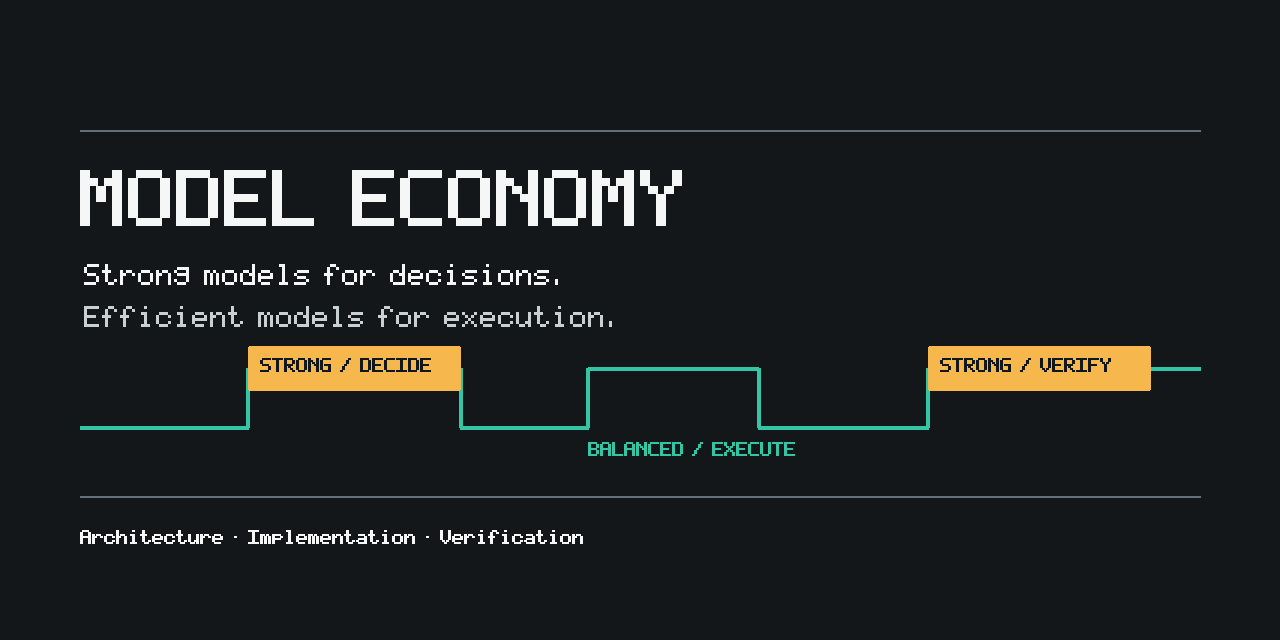
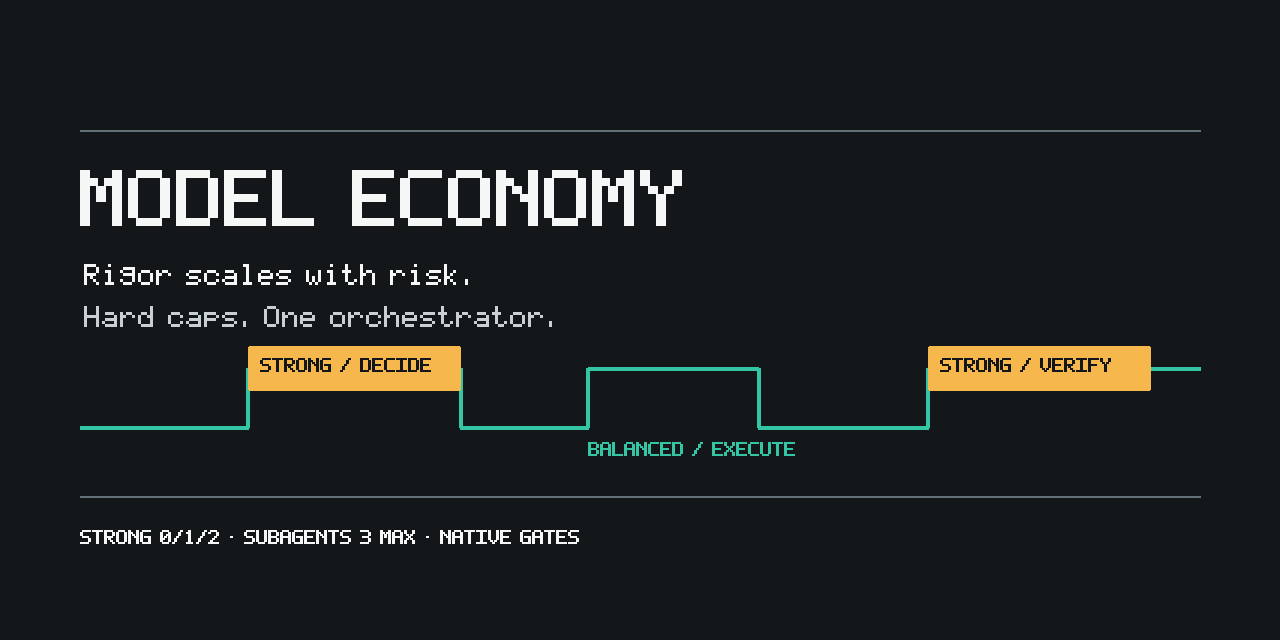
docs: sharpen Model Economy positioning (#3)

Changed region(s): [[0.0625, 0.4062, 0.4688, 0.5312], [0.0625, 0.8125, 0.3125, 0.875], [0.3438, 0.8125, 0.4688, 0.875]]

diff --git a/tests/test_structure.py b/tests/test_structure.py
@@ -34,8 +34,12 @@ class StructureTests(unittest.TestCase):
 
     def test_readmes_share_the_public_information_architecture(self):
         expected_sections = (
+            "Why it exists",
+            "What makes it different",
+            "Model Economy vs full Superpowers",
             "How it works",
             "Install in 60 seconds",
+            "Use it on your terms",
             "Task classification",
             "Roles",
             "Global routing",
@@ -54,16 +58,27 @@ class StructureTests(unittest.TestCase):
         self.assertIn("assets/model-economy-flow-zh-CN.svg", chinese)
         self.assertIn("Use strong models for decisions, not routine work.", english)
         self.assertIn("让强模型负责关键判断，而不是日常机械工作", chinese)
+        self.assertIn("complete software development methodology", english)
+        self.assertIn("完整软件开发方法论", chinese)
+        self.assertIn("This task must not use Model Economy", english)
+        self.assertIn("本任务不要使用 Model Economy", chinese)
+        self.assertIn("at most three subagents", english)
+        self.assertIn("最多启动三个 subagent", chinese)
 
         last_index = -1
         for section in expected_sections:
-            index = english.index(section)
+            index = english.index(f"## {section}")
             self.assertGreater(index, last_index)
             last_index = index
 
+        last_index = -1
         for section in (
+            "为什么需要它",
+            "特别之处",
+            "Model Economy 与完整 Superpowers",
             "工作原理",
             "60 秒安装",
+            "按你的方式使用",
             "任务分类",
             "角色",
             "全局路由",
@@ -73,7 +88,20 @@ class StructureTests(unittest.TestCase):
             "贡献",
             "许可证",
         ):
-            self.assertIn(section, chinese)
+            index = chinese.index(f"## {section}")
+            self.assertGreater(index, last_index)
+            last_index = index
+
+    def test_readmes_compare_workflows_without_unsupported_adoption_claims(self):
+        english = (ROOT / "README.md").read_text(encoding="utf-8").lower()
+        chinese = (ROOT / "README.zh-CN.md").read_text(encoding="utf-8")
+
+        self.assertIn("https://github.com/obra/superpowers", english)
+        self.assertIn("https://github.com/obra/superpowers", chinese)
+        self.assertNotIn("abandoned", english)
+        self.assertNotIn("being abandoned", english)
+        self.assertNotIn("被抛弃", chinese)
+        self.assertNotIn("没人再用", chinese)
 
     def test_each_bilingual_command_document_matches_cli_help(self):
         cli = ROOT / "plugins/model-economy/scripts/model_economy.py"

diff --git a/scripts/render_social_preview.py b/scripts/render_social_preview.py
@@ -22,6 +22,10 @@ PALETTE = (
     (0xF6, 0xB7, 0x4D),
 )
 BITMAP_FONT = {
+    "0": "01110/10001/10011/10101/11001/10001/01110",
+    "1": "00100/01100/00100/00100/00100/00100/01110",
+    "2": "01110/10001/00001/00010/00100/01000/11111",
+    "3": "11110/00001/00001/01110/00001/00001/11110",
     "A": "01110/10001/10001/11111/10001/10001/10001",
     "B": "11110/10001/10001/11110/10001/10001/11110",
     "C": "01111/10000/10000/10000/10000/10000/01111",
@@ -171,12 +175,19 @@ def render(output: Path) -> None:
     for bounds, _, _ in PREVIEW_BADGES:
         draw.rounded_rectangle(bounds, radius=2, fill=AMBER)
     draw_bitmap_text(image, (80, 170), "MODEL ECONOMY", 8, TEXT, bold=True)
-    draw_bitmap_text(image, (84, 264), "Strong models for decisions.", 3, TEXT)
-    draw_bitmap_text(image, (84, 306), "Efficient models for execution.", 3, MUTED)
+    draw_bitmap_text(image, (84, 264), "Rigor scales with risk.", 3, TEXT)
+    draw_bitmap_text(image, (84, 306), "Hard caps. One orchestrator.", 3, MUTED)
     for (left, top, _, _), label, scale in PREVIEW_BADGES:
         draw_bitmap_text(image, (left + 12, top + 12), label, scale, BACKGROUND, bold=True)
     draw_bitmap_text(image, (588, 442), "BALANCED / EXECUTE", 2, TEAL, bold=True)
-    draw_bitmap_text(image, (80, 530), "Architecture · Implementation · Verification", 2, TEXT, bold=True)
+    draw_bitmap_text(
+        image,
+        (80, 530),
+        "STRONG 0/1/2 · SUBAGENTS 3 MAX · NATIVE GATES",
+        2,
+        TEXT,
+        bold=True,
+    )
     save_indexed_png(image, output)
 
 

diff --git a/tests/test_visual_assets.py b/tests/test_visual_assets.py
@@ -157,6 +157,18 @@ class VisualAssetTests(unittest.TestCase):
         self.assertIn("BITMAP_FONT", source)
         self.assertNotIn("ImageFont", source)
 
+    def test_social_preview_states_the_product_constraints(self):
+        sources = (
+            RENDER_SCRIPT.read_text(encoding="utf-8"),
+            (ROOT / "assets/social-preview.svg").read_text(encoding="utf-8"),
+        )
+
+        for source in sources:
+            self.assertIn("Rigor scales with risk.", source)
+            self.assertIn("Hard caps. One orchestrator.", source)
+            self.assertIn("STRONG 0/1/2", source)
+            self.assertIn("SUBAGENTS 3 MAX", source)
+
     def test_social_preview_badge_labels_fit_their_bounds(self):
         renderer = load_renderer()
         badges = getattr(renderer, "PREVIEW_BADGES", ())

diff --git a/README.md b/README.md
@@ -6,16 +6,47 @@
 
 ![Model Economy](assets/social-preview.png)
 
-Model Economy is a Codex plugin for capability-aware development workflows. It keeps high-capability models at design, risk, and final-review gates; routes implementation and bounded research to suitable lower-cost capability tiers; and applies native lightweight quality gates for approval, planning, testing, and verification.
+When one workflow gives a configuration edit, a known bug, and an architecture change the same treatment, every task pays for questions, a specification, a long plan, multiple subagents, and several reviews. That rigor is valuable when the risk justifies it. On routine work, it adds cost and waiting without improving the decision.
 
-It can display local CodexBar token and estimated-cost summaries. It does not scan sessions itself, promise savings, verify model or role identity, or replace engineering judgment.
+Model Economy makes risk classification the first step. The result is not just a model router: it is a bounded development workflow that controls which capability tier may act, what each role may change, when approval is required, and how much orchestration a task can consume.
+
+It can also display local CodexBar token and estimated-cost summaries. It does not scan sessions itself, promise savings, verify model or role identity, or replace engineering judgment.
 
 ## Why it exists
 
-- Reserve `strong` capability for consequential decisions instead of routine edits.
-- Match investigation, implementation, review, and fixed-rule batch work to explicit role boundaries.
-- Require approval only for material ambiguity or high-risk decisions, and scale testing to behavioral risk.
-- Always require fresh completion evidence without forcing a full methodology onto simple work.
+- A one-line fix should not automatically become a project ceremony.
+- A high-risk design should still receive strong architecture judgment and an independent final review.
+- The agent should have a hard budget, not an open-ended invitation to spawn more agents or escalate models.
+- Completion should mean fresh evidence proportionate to the change, not merely a confident status message.
+
+## What makes it different
+
+| Constraint | What it changes in practice |
+| --- | --- |
+| Risk comes before routing | Every task is classified as simple, standard, mechanical, or large/high-risk before a role or model tier is selected. |
+| Strong calls are capped | The task-class maximum is `0`, `1`, or `2`; strong models are reserved for architecture, diagnosis after repeated failure, and final review. |
+| Roles have permissions | The strong architect and final reviewer are read-only. Implementation stays with `balanced`; fixed-rule batch edits may use `economy`. |
+| Orchestration is bounded | A task may start at most three subagents, recursive delegation is prohibited, and small work normally starts none. |
+| Quality gates scale with risk | Intent, approval, planning, testing, and completion evidence are native gates, but routine work does not inherit a full methodology. |
+| One workflow owns the task | Model Economy does not silently stack another orchestrator on top. A full Superpowers handoff requires explicit authorization for the current task. |
+
+Three optional leaf skills keep context work small: `domain-context` extracts only relevant business constraints, `module-design` checks boundaries and change surface, and `disposable-prototype` answers a concrete unknown with throwaway code. None of them starts subagents or takes over orchestration.
+
+## Model Economy vs full Superpowers
+
+[Superpowers](https://github.com/obra/superpowers) describes itself as a **complete software development methodology** with mandatory workflows for brainstorming, design approval, planning, worktrees, test-driven development, task execution, review, and branch completion. That coherent end-to-end process is useful when you want the full discipline on every eligible task. Model Economy targets a different default: apply only the process justified by the task's risk.
+
+| | Model Economy | Full Superpowers workflow |
+| --- | --- | --- |
+| Primary goal | Control capability, cost exposure, permissions, and evidence by risk | Apply a complete development methodology from intent through branch completion |
+| Default entry | Classify the task first; simple work can proceed directly | Begin with brainstorming and design clarification for building tasks |
+| Plans and tests | Scale to ambiguity and behavioral risk | Detailed plans and strict RED-GREEN-REFACTOR TDD are core workflow requirements |
+| Subagents | Conditional, non-recursive, at most three per task | May assign a fresh subagent to each planned task with two-stage review |
+| Strong-model budget | Explicit class cap: `0` / `1` / `2` | No comparable capability-tier call cap is specified in the published workflow |
+| Best fit | Daily development where routine speed and high-risk rigor must coexist | Tasks where the user explicitly wants the complete methodology |
+| Coexistence | Owns the default route; hands off only on an explicit current-task request | Takes orchestration authority only after that explicit handoff |
+
+This is a workflow choice, not a claim that one tool is universally better. If you want full Superpowers for a task, say “full Superpowers” or “Superpowers strict mode”. Model Economy then supplies only capability and cost advice and does not add a second process.
 
 ## How it works
 
@@ -23,7 +54,12 @@ It can display local CodexBar token and estimated-cost summaries. It does not sc
 
 Tasks are classified in a fixed order: large or high-risk, mechanical, simple, then standard. The first matching class decides the permitted roles and the maximum number of `strong` calls. See [how it works](docs/en/how-it-works.md) for the complete policy.
 
-Superpowers is not a dependency. Even when it is installed or enabled, Model Economy remains the default workflow. Handoff occurs only when the user explicitly requests “full Superpowers” or “Superpowers strict mode” for the current task.
+| Example | Route |
+| --- | --- |
+| Known configuration key, known file, direct check | Simple: main agent, no subagent, `strong` maximum `0` |
+| Repeated edit with a fixed rule, bounded files, and per-item validation | Mechanical: `economy` batch worker, only when all five mechanical conditions hold |
+| Cross-module bug with a known product behavior | Standard: `balanced` implementation; explorer or reviewer only when their evidence is needed |
+| Authentication, permissions, new architecture, or wide blast radius | Large/high-risk: read-only strong architect, balanced implementation, read-only strong final reviewer; `strong` maximum `2` |
 
 ## Install in 60 seconds
 
@@ -38,7 +74,33 @@ python3 plugins/model-economy/scripts/model_economy.py verify
 
 Use `py -3.11` in place of `python3` on Windows. The full installation, upgrade, migration, and removal guide is in [Installation](docs/en/installation.md).
 
-## View usage
+## Use it on your terms
+
+Model Economy is controllable at the task, project, global-routing, and plugin levels.
+
+| Scope | How to control it |
+| --- | --- |
+| Use for one task | Say: `Use Model Economy for this task.` |
+| Skip for one task | Say: `This task must not use Model Economy.` |
+| Project policy | Add the desired rule to the project's `AGENTS.md`; project instructions override the global rule. |
+| Global default | Use `enable-global-routing` or `disable-global-routing` below. |
+| Installed plugin | In Codex Desktop, open **Plugins → Installed → Model Economy** and toggle it. Start a new task after changing the toggle. |
+
+Enable the global default from the repository root:
+
+```sh
+python3 plugins/model-economy/scripts/model_economy.py enable-global-routing
+```
+
+Disable it without removing the plugin:
+
+```sh
+python3 plugins/model-economy/scripts/model_economy.py disable-global-routing
+```
+
+The plugin toggle and the global `$CODEX_HOME/AGENTS.md` routing block are independent. To stop Model Economy completely, disable global routing, turn off the installed plugin, and start a new task. To keep the plugin available but opt out occasionally, the one-task instruction is enough.
+
+### View usage
 
 With CodexBar 0.41.0 or later installed, view local Codex usage without exposing account credentials:
 
@@ -82,17 +144,7 @@ These skills start no subagents, do not change task classification, model mappin
 
 ## Global routing
 
-After installation, add the generic development-routing block to your global `$CODEX_HOME/AGENTS.md`:
-
-```sh
-python3 plugins/model-economy/scripts/model_economy.py enable-global-routing
-```
-
-The command is idempotent and changes only the marked, managed Model Economy block. A project's own `AGENTS.md` can override the global rule. Remove the block with:
-
-```sh
-python3 plugins/model-economy/scripts/model_economy.py disable-global-routing
-```
+`enable-global-routing` adds the generic development-routing policy to `$CODEX_HOME/AGENTS.md`. The command is idempotent and changes only the marked, managed Model Economy block. A project's own `AGENTS.md` can override the global rule. `disable-global-routing` removes only that managed block.
 
 ## Security and trust boundaries
 